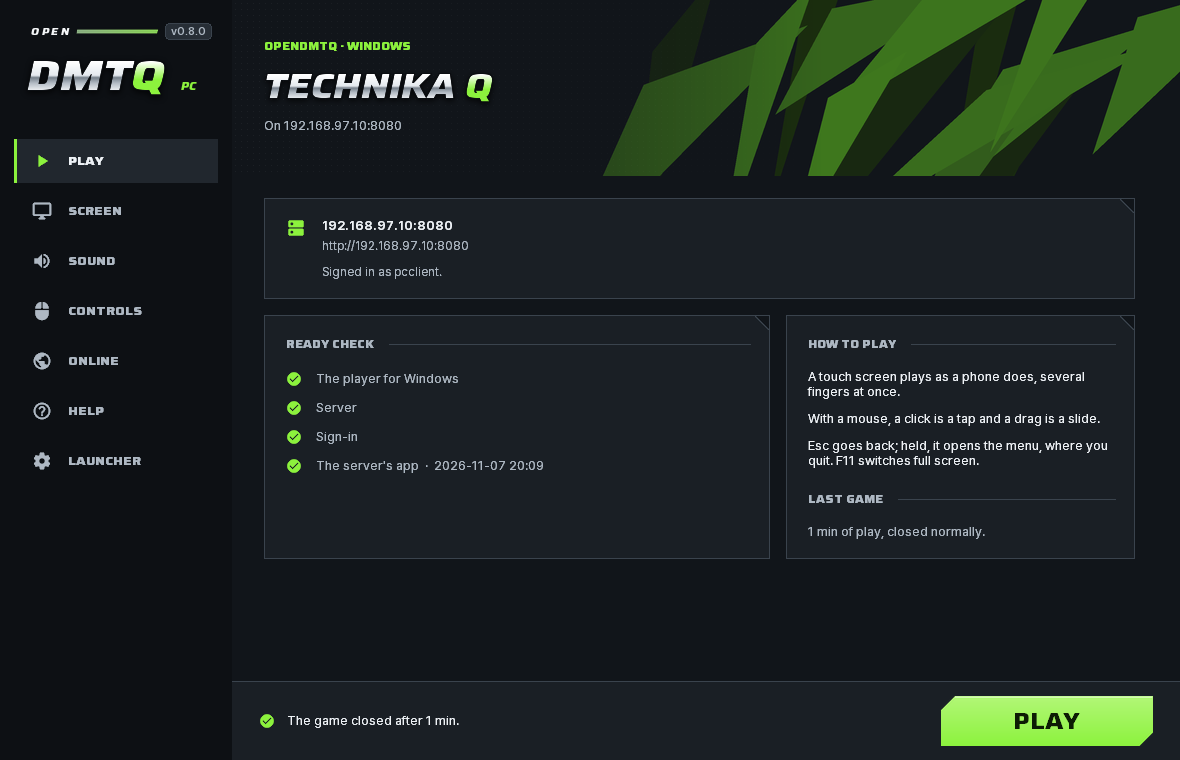
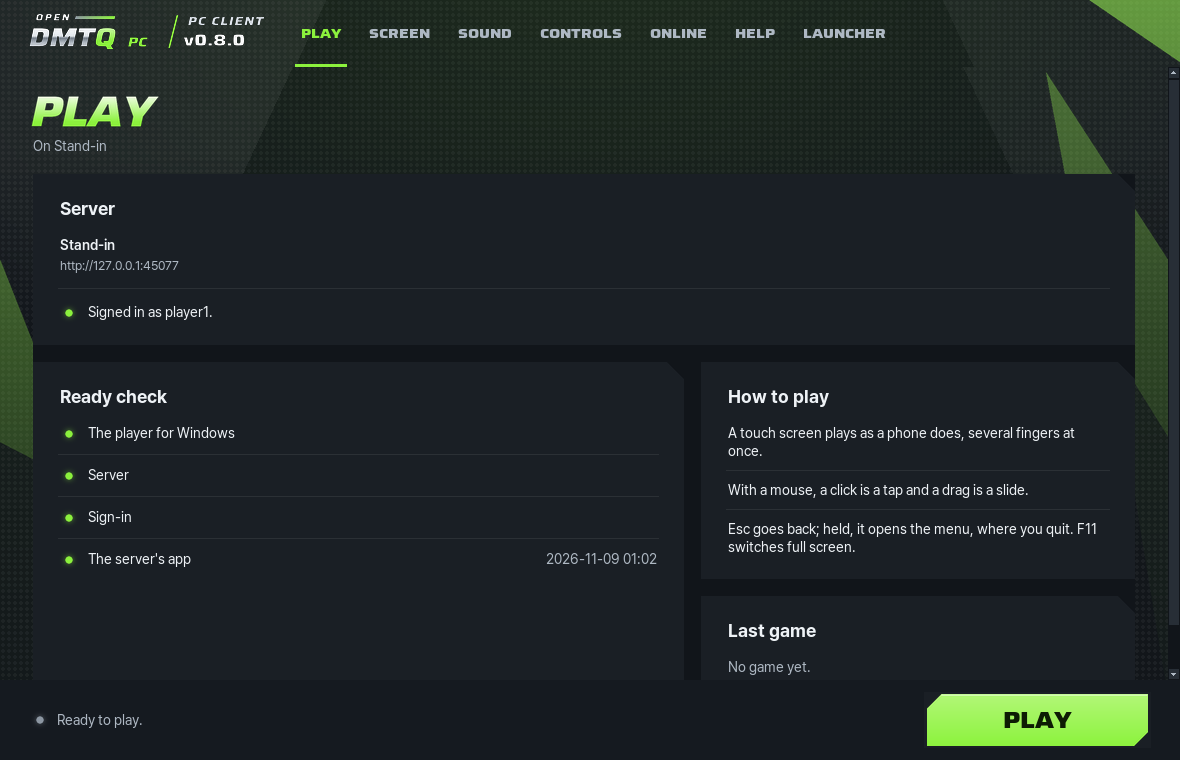
The PC client's guides brought up to date: its flags, the silent install, updates without internet, the languages, the disk it takes, Help's tools
The launcher's picture is the redrawn PLAY page. The release no longer carries vpk's portable zip, which no guide
names: OpenDMTQ-Setup.exe installs and the packages update.

diff --git a/docs/windows-player.md b/docs/windows-player.md
@@ -5,14 +5,14 @@ the PC client sits between the player and the person: an installer, and a launch
 in, downloads the server's app (the same app its phones install) and keeps it up to date, sets the picture and the
 sound up for the PC, and starts the game. The game then plays against the server as it does on a phone.
 
-![The launcher's PLAY page: the server, the checks before a start, how to play, and PLAY](images/client-play.png)
+![The launcher's PLAY page: the server and the sign-in, the ready check, how to play, the last game, and PLAY](images/client-play.png)
 
 ## For players
 
 1. On the server's site, sign in and open **Download**. Under **On a computer (Windows)**, choose **Download the
    installer for Windows**. The file it gives, `OpenDMTQ-Setup-<address>.exe`, is set up for that server.
-2. Run it and choose **Install**. It installs for your Windows user, with a desktop shortcut and no administrator
-   rights, and starts the launcher. If Windows says it protected your PC from an unknown app: **More info**, then **Run
+2. Run it and choose **Install**. It installs for your Windows user, with shortcuts on the desktop and in the Start
+   menu and no administrator rights, and starts the launcher. If Windows says it protected your PC from an unknown app: **More info**, then **Run
    anyway**. The installer is not signed by a publisher Windows knows. Windows 11's Smart App Control, when it is on,
    blocks unsigned programs, this one among them, and has no **Run anyway**.
 3. The launcher's first start walks through the server (already filled in), the sign-in with your site ID, the app's
@@ -21,6 +21,8 @@ sound up for the PC, and starts the game. The game then plays against the server
 The installer from the project's [releases](https://github.com/kanggu12/openDMTQ/releases/latest) (`OpenDMTQ-Setup.exe`)
 is the same program without a server: its first start asks for the server's address. One launcher keeps several
 servers, each with its own sign-in and app, and plays on the one chosen on the **Online** page.
+`OpenDMTQ-Setup.exe --silent` installs or updates with no dialog and starts the launcher (`--no-start` leaves it
+closed); while a game runs it installs nothing and ends with 3.
 
 ### The launcher
 
@@ -36,11 +38,17 @@ servers, each with its own sign-in and app, and plays on the one chosen on the *
 
 **PLAY** asks the server for a newer app first and downloads it when there is one; when the server cannot be asked, the
 game starts with the app this PC has. The launcher updates itself from the project's releases: **Launcher**, **Check for
-updates**. While the game runs the launcher steps aside, and comes back when the game ends.
+updates**. Without internet, the installer from the server's **Download** page updates it instead, once the server has
+a newer one; the servers and the settings stay. While the game runs the launcher steps aside, and comes back when the
+game ends.
 
-`OpenDMTQ-cmd.exe`, next to the launcher in its folder, does the same from the command line, each step a flag
-(`OpenDMTQ-cmd.exe --help`): connect, sign in and out, download, the settings, the sound devices, **PLAY**, updates,
-repairing, clearing the game's data, starting over and uninstalling.
+`OpenDMTQ-cmd.exe`, in `%LOCALAPPDATA%\OpenDMTQ.Client\current`, does the same from the command line: `--status`
+(exit 0 when PLAY can go), `--server URL`, `--sign-in ID` (the password from standard input), `--sign-out`, `--app`,
+`--set NAME=VALUE`, `--audio-devices`, `--language en|ko|system`, `--guide`, `--open-log player|launcher`, `--play`,
+`--update`, `--forget URL`, `--reset`, `--repair`, `--clear-game-data` and `--uninstall [--delete-data]`, with `--yes`
+to answer their questions (`--help` lists them all). `--set` takes `display`, `window`, `vsync`, `fps`,
+`render_scale`, `audio_device`, `audio_mode`, `audio_buffer` and `volume`, with the values the **Screen** and **Sound**
+pages offer. While the launcher's window is open, the flags that change what it keeps are refused.
 
 ### In the game
 
@@ -109,14 +117,16 @@ says when a broadcast starts and ends, and where it can be watched.
 ### What it needs, and what it keeps
 
 - **What it needs:** 64-bit Windows 10 or 11 on an x64 PC (Intel or AMD), and a graphics card with Direct3D 11. About
-  350 MB of disk to start: the program about 85 MB, each server's app about 110 MB, the app's libraries about 40 MB, and
+  390 MB of disk to start: the program about 125 MB with the package **Repair** takes its files from, each server's app
+  about 110 MB, the app's libraries about 40 MB, and
   the game's data 111 MB after a first start and one song, more with each song it downloads. The installer itself is
   about 60 MB.
 - **The videos** need Windows' Media Foundation. The N and KN editions of Windows come without it: there, install the
   Media Feature Pack, under Settings, Optional features (in Apps or in System, by the version of Windows). Without it
   the videos are black and silent, and the game goes on.
-- **The language** is Windows' display language: Korean or English for the installer, the launcher and the menu over
-  the game (the launcher's can be changed on its **Launcher** page), and the game's among those it has.
+- **The language:** the launcher speaks Windows' display language, Korean or English, until one is chosen on the
+  first-start guide's first step or the **Launcher** page, and the installer speaks the launcher's. The menu over the
+  game follows Windows' display language, and so does the game, among the languages it has.
 - **What it keeps on the PC,** per Windows user:
   - the program, in `%LOCALAPPDATA%\OpenDMTQ.Client`;
   - the launcher's settings and logs, and each server's app, in `%LOCALAPPDATA%\OpenDMTQ\client`;
@@ -130,8 +140,8 @@ says when a broadcast starts and ends, and where it can be watched.
     changed (`--repair`). Running `OpenDMTQ-Setup.exe` again repairs too.
   - **Clear game data** deletes what the game keeps, all but the device id: the game downloads its data again at the
     next start, and the PC stays the same player (`--clear-game-data`).
-  - **Start over** forgets the servers, the sign-ins, the apps and the settings, and opens the first-start guide
-    (`--reset`). **Forget** on the **Online** page does that for one server (`--forget URL`).
+  - **Start over** forgets the servers, the sign-ins, the apps and the settings, and opens the first-start guide; the
+    game's data and the language stay (`--reset`). **Forget** on the **Online** page does that for one server (`--forget URL`).
   - **Uninstall** removes the program, its shortcuts and its entry in Windows' Apps (`--uninstall`). It asks whether
     the settings, sign-ins and game data stay for a later install or go too (`--uninstall --delete-data`). With them
     goes the device id, and a later install is a new player, unless the account transfer below brings this one back.
@@ -186,6 +196,7 @@ server's app, `--settings` the file).
 - **The game does not start:** the launcher says why on its bottom line, with a link to the player's log; **Help**
   opens it too. The log is `player.log` in the game's folder in `%LOCALAPPDATA%\OpenDMTQ`; the launcher's own is in
   `%LOCALAPPDATA%\OpenDMTQ\client\logs`.
+- **The launcher says the server runs an older OpenDMTQ:** the PC client needs a server of 0.8 or newer.
 - **The player is missing or a file of the program is damaged:** **Help**, **Repair** puts the program's files back
   from the package it was installed from.
 - **The installer says a game is going on:** finish it and close the game; installing replaces the player it plays in.

diff --git a/CHANGELOG.md b/CHANGELOG.md
@@ -32,20 +32,20 @@ one that only fixes raises the patch number. Each release's section here is its 
 - A menu in the player for Windows, over the game: back to the game, full screen or a window, and quitting the game. It
   comes up from a round button at the top right, from Esc held, from a finger drawn down from the top edge of the game,
   and from Alt+F4 or the window's close button. The button shows while the mouse moves in the top quarter of the game
-  with its button up, not while a song is played with the mouse. The game holds still while the menu is open, as a
+  with its button up, so it stays out of the way of a song played with the mouse. The game holds still while the menu is open, as a
   phone's game does when its owner leaves it, a broadcast with it, and the arrow keys and Enter choose in it. Minimised,
   the game holds still behind the menu, which is there when the game comes back.
 - Over the game, the player for Windows shows its own pointer: a dart in the logo's chrome and lime, all lime while the
   button is down, sized for the display's scaling.
 - `client.php` on the site answers the PC client: whether the address is an OpenDMTQ server, a sign-in that gives the
   site's cookie, and the app on offer for a signed-in player.
-- The PC client for Windows (`OpenDMTQ-Setup.exe`): an installer, and a launcher between the player and the game. It
+- The PC client for Windows (`OpenDMTQ-Setup.exe`): an installer, and a launcher that starts the game in the player. It
   connects to a server, signs in, downloads the server's app and keeps it up to date, sets the picture and the sound up
   for the computer before PLAY, and starts the player. It updates itself from the project's releases. Downloaded from a
   server's site, it comes with that server already set; from the releases, it asks for the address on first start.
   Downloaded over HTTPS, it keeps the address with its port, and the server's own certificate authority where the
-  server has one, which the launcher trusts for that server alone. The installer and the launcher speak English or
-  Korean, as Windows does, and the launcher can be set to either. `OpenDMTQ-cmd.exe` does the same from the command
+  server has one, which the launcher trusts for that server alone. The launcher speaks English or Korean, as
+  Windows does until one is chosen, and the installer speaks the launcher's. `OpenDMTQ-cmd.exe` does the same from the command
   line.
 - The PC client's Help page repairs, clears and removes, each with the same flag of `OpenDMTQ-cmd.exe`: Repair puts the
   program's files that are missing or changed back from the package it was installed from (`--repair`); Clear game
@@ -63,7 +63,7 @@ one that only fixes raises the patch number. Each release's section here is its 
   Turned to start new players on, it leaves every player already there as they are: only those who come after start
   on.
 - `GET /broadcasts` and `PUT /broadcasts` in the admin API read and change those settings.
-- An upgrade is tested on every push: the last release's images are used as people use them, then the new ones start on
+- An upgrade is tested in CI and in the local gate: the last release's images are used as people use them, then the new ones start on
   the same data and must have lost nothing (`tests/upgrade/run.sh`).
 
 ### Changed
@@ -74,6 +74,8 @@ one that only fixes raises the patch number. Each release's section here is its 
   place of a zip with the player and the app in it. The installer is the same for every server: the builder keeps it
   beside the app (`windows.json`), from the release, from `data/apk`, or fetched from the latest release, and removes
   the zips of 0.6 and 0.7 and what they kept in `data/apk` for their player.
+- Without internet, a host install takes the PC client's installer from the kit (`OpenDMTQ-Setup.exe` and
+  `OpenDMTQ-Setup.exe.version`) in place of `opendmtq-player-windows.zip`.
 - `player --refresh` sets the display's rate that the frame pacing follows too, for a display that gives none.
 - The notice in the game when a broadcast starts or ends reads as two lines: what happened, then where the broadcast and
   its replay can be watched (the site's LIVE page, by the server's name). Phones show it for longer. A player on air

diff --git a/client/README.md b/client/README.md
@@ -1,6 +1,6 @@
 # The PC client
 
-`OpenDMTQ-Setup.exe` installs the launcher (portal) and the player for Windows for one Windows user, with no
+`OpenDMTQ-Setup.exe` installs the launcher and the player for Windows for one Windows user, with no
 administrator rights. The launcher connects to an OpenDMTQ server, signs in with an account its owner made, downloads
 that server's app, sets the picture and the sound up for the PC, and starts the game in the player. An installer
 downloaded from a server's site has that server on its end and starts with it; one from a release asks for the address.
@@ -18,13 +18,19 @@ each server's app in `%LOCALAPPDATA%\OpenDMTQ\client`, and the game's own data a
 ## Working on it
 
 ```sh
-cd client && python3 -m unittest discover -s tests -t .     # no screen, no network: a stand-in server and player
+(cd client && python3 -m unittest discover -s tests -t .)   # no screen, no network: a stand-in server and player
 client/tests/ui/run.sh OUT_DIR                               # every page, the guide and the dialogs, both languages, three sizes
-arm32/bundle_windows.sh                                      # the player for Windows, which the installer brings
+arm32/build.sh && arm32/build_windows.sh player              # the guest's system, the agent and the player for Windows
+arm32/bundle_windows.sh                                      # the player packed, as the installer brings it
 client/packaging/windows/build.sh OUT_DIR                    # OUT_DIR/releases: the installer and Velopack's packages
 TEST_SITE=... TEST_NET=... TEST_APK=... TEST_TOOLS=... ACCOUNT_FILE=... \
   client/tests/windows/e2e.sh OUT_DIR E2E_DIR                # installer to game under Wine, against a test server
 ```
+
+The unit tests need Python with Tk, Pillow and fontTools; CI runs them in the image of `tests/ui` (`.github/workflows/ci.yml`).
+On Windows itself, `client/tests/windows/install.ps1 -Folder OUT_DIR\releases` installs the build silently and checks the
+command line, the player, a repair and the uninstall. The first build fetches its build machines (a Windows Python,
+Wine, .NET's `vpk`); later builds need no network.
 
 A build looks for updates where `OPENDMTQ_UPDATE_SOURCE` points when it is made: a GitHub repository's URL (its
 releases), or a folder holding the packages `build.sh` leaves in `OUT_DIR/releases`. `OpenDMTQ-cmd.exe --help` lists

diff --git a/docs/faq.md b/docs/faq.md
@@ -54,7 +54,7 @@ Android 5.0 or newer, phones and tablets. Newer ones without 32-bit support (Pix
 work too: the server adds what they need to the app. iPhones do not ([why](game-files.md#iphones)).
 
 **Can I play on a computer?**
-On a PC with 64-bit Windows 10 or 11: the site's Download page has the PC client, an installer set up for the server.
+On a PC with 64-bit Windows 10 or 11 on an x64 processor (Intel or AMD): the site's Download page has the PC client, an installer set up for the server.
 It installs for your Windows account without administrator rights; sign in there with your site ID, and it downloads the
 game and keeps it up to date. The PC is a player of its own, apart from your phone, and the game's account transfer
 carries a player from one to the other ([the PC client](windows-player.md)).
@@ -77,8 +77,10 @@ client data and the song data together, or the `DMQ` folder alone, with **Import
 
 **What leaves my computer?**
 Accounts, scores, recordings and backups stay on the server's computer, in `data/`, and phones talk to the server alone.
-The server asks the internet for one thing: the runtime for newer phones, from this repository's latest release, when
-it builds the app without one (the Windows bundle carries its own). `./opendmtq check` on a server reachable from the
+The server asks the internet for two things, from this repository's latest release, and only when it lacks them: the
+runtime for newer phones, when it builds the app without one, and the PC client's installer, when none came with it (a
+release's images and the Windows bundle carry both). The PC client asks the same releases when **Check for updates** is
+pressed, and nothing else on its own. `./opendmtq check` on a server reachable from the
 internet asks check-host.net to open its page from outside, which tells that site the server's address. The game's own
 app, and Android, also look up a few Google and ad addresses; the game plays the same without them
 ([without internet](closed-network.md)).

diff --git a/README.md b/README.md
@@ -90,7 +90,7 @@ install the app; on a Windows PC, download the installer from the same page.
 | **Server** | 64-bit Windows 10 or 11, Debian 12, Ubuntu 24.04, macOS, or Docker; 2 GB of memory | 2 cores, 4 GB |
 | **Disk** | 1 GB without the songs | 7 GB with every song |
 | **Phones** | Android 5.0 | Android 8 or newer to broadcast |
-| **PCs** | The PC client: 64-bit Windows 10 or 11 on an x64 processor (Intel or AMD), Direct3D 11, 350 MB of disk | A touch screen, for several fingers at once |
+| **PCs** | The PC client: 64-bit Windows 10 or 11 on an x64 processor (Intel or AMD), Direct3D 11, 390 MB of disk | A touch screen, for several fingers at once |
 
 ## Features
 
